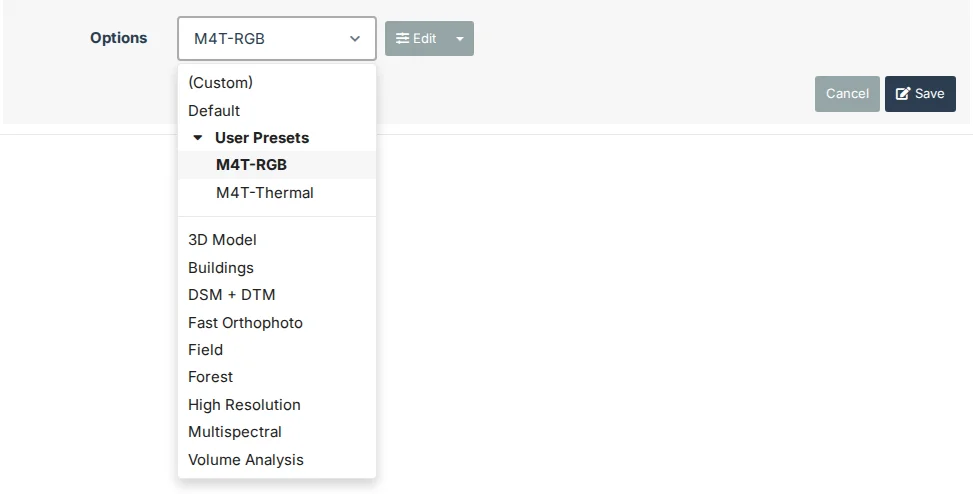
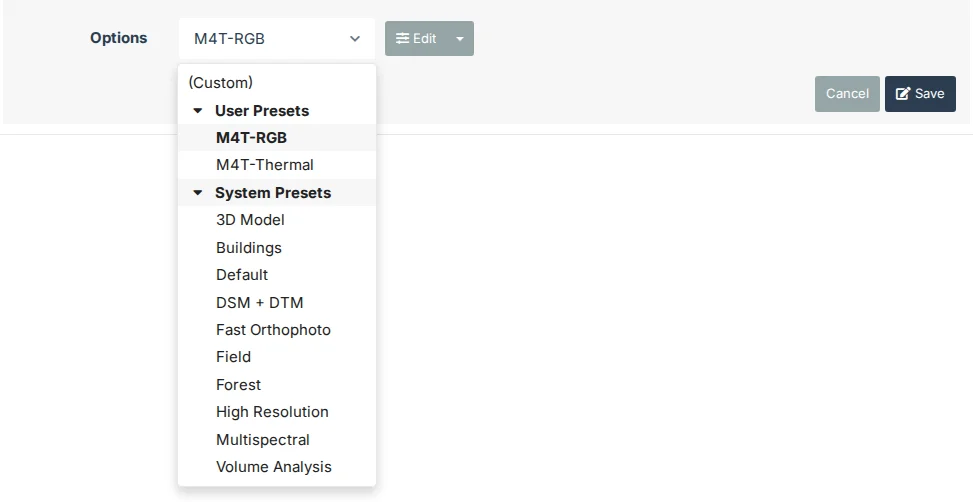
Sort Preset Options: a System Presets submenu below User Presets, Default in it
(Custom) alone stays at the top; each submenu starts open when it holds the chosen preset.

diff --git a/tweakui/public/preset_menu.js b/tweakui/public/preset_menu.js
@@ -1,7 +1,7 @@
 // General > Task Options > Sort Preset Options: the Options preset dropdown of a task's form (the New Task panel's and
-// a task's Edit form, EditTaskForm in WebODM) becomes a dropdown of TweakUI's own, in theme colours: (Custom) when the
-// options were edited, then Default, at the top; then "User Presets", which opens in the list to the user's own
-// presets, A-Z; then the other system presets, A-Z. WebODM's select stays on the page, hidden: choosing an item sets
+// a task's Edit form, EditTaskForm in WebODM) becomes a dropdown of TweakUI's own, in theme colours: (Custom) at the
+// top when the options were edited; then two submenus that open in the list, "User Presets" (the user's own) and
+// "System Presets" (WebODM's, Default among them), each A-Z and open at first when it holds the chosen preset. WebODM's select stays on the page, hidden: choosing an item sets
 // its value and sends it a change event, so WebODM's own code selects the preset, and the button follows the select
 // (its options, value and title change as WebODM re-renders it). UMD, so Jest can load it.
 (function (root, factory) {
@@ -20,27 +20,19 @@
     var DONE = "data-tweakui-presets";
     var CUSTOM = "-1";
 
-    function gettext(win, text) {
-        return typeof win.gettext === "function" ? win.gettext(text) : text;
-    }
-
     function byName(a, b) {
         return a.name.localeCompare(b.name, undefined, {sensitivity: "base"});
     }
 
-    // The select's presets, in the menu's order: {top: [(Custom), Default], user: [...], system: [...]}, each
-    // {value, name}; Default is the system preset WebODM shows as gettext("Default")
-    function order(select, win) {
-        var defaultName = gettext(win, "Default"), out = {top: [], user: [], system: []}, custom = null, def = null;
+    // The select's presets, in the menu's order: {top: [(Custom)], user: [...], system: [...]}, each {value, name}
+    function order(select) {
+        var out = {top: [], user: [], system: []};
         Array.prototype.forEach.call(select.options, function (o) {
             var p = {value: o.value, name: o.textContent};
-            if (o.value === CUSTOM) custom = p;
-            else if (!o.classList.contains("system-preset")) out.user.push(p);
-            else if (!def && (p.name === defaultName || p.name === "Default")) def = p;
-            else out.system.push(p);
+            if (o.value === CUSTOM) out.top.push(p);
+            else if (o.classList.contains("system-preset")) out.system.push(p);
+            else out.user.push(p);
         });
-        if (custom) out.top.push(custom);
-        if (def) out.top.push(def);
         out.user.sort(byName);
         out.system.sort(byName);
         return out;
@@ -74,8 +66,8 @@
         menu.setAttribute("role", "menu");
         wrap.appendChild(button);
         wrap.appendChild(menu);
-        // null: the submenu opens when the chosen preset is the user's; then as the user left it
-        var userOpen = null;
+        // Each submenu, by key: null opens it when it holds the chosen preset; then as the user left it
+        var groupOpen = {user: null, system: null};
 
         function selected() {
             var o = select.options[select.selectedIndex];
@@ -104,31 +96,31 @@
             return li;
         }
 
+        // A submenu's heading, and its presets while open; none without presets
+        function group(key, label, presets) {
+            if (!presets.length) return;
+            var now = selected(), held = presets.some(function (p) { return p.value === now; });
+            var open = groupOpen[key] === null ? held : groupOpen[key];
+            var li = ui.el(doc, "li", "tweakui-presets-group");
+            li.setAttribute("role", "presentation");
+            var head = ui.el(doc, "a", "tweakui-presets-group-head");
+            head.href = "#";
+            head.setAttribute("role", "menuitem");
+            head.setAttribute("data-group", key);
+            head.setAttribute("aria-expanded", open ? "true" : "false");
+            head.appendChild(ui.el(doc, "i", "fa fa-fw " + (open ? "fa-caret-down" : "fa-caret-right")));
+            head.appendChild(doc.createTextNode(" " + label));
+            li.appendChild(head);
+            menu.appendChild(li);
+            if (open) presets.forEach(function (p) { menu.appendChild(item(p, true)); });
+        }
+
         function build() {
-            var list = order(select, win), now = selected();
+            var list = order(select);
             while (menu.firstChild) menu.removeChild(menu.firstChild);
             list.top.forEach(function (p) { menu.appendChild(item(p)); });
-            if (list.user.length) {
-                var mine = list.user.some(function (p) { return p.value === now; });
-                var open = userOpen === null ? mine : userOpen;
-                var li = ui.el(doc, "li", "tweakui-presets-group");
-                li.setAttribute("role", "presentation");
-                var head = ui.el(doc, "a", "tweakui-presets-group-head");
-                head.href = "#";
-                head.setAttribute("role", "menuitem");
-                head.setAttribute("aria-expanded", open ? "true" : "false");
-                head.appendChild(ui.el(doc, "i", "fa fa-fw " + (open ? "fa-caret-down" : "fa-caret-right")));
-                head.appendChild(doc.createTextNode(" User Presets"));
-                li.appendChild(head);
-                menu.appendChild(li);
-                if (open) list.user.forEach(function (p) { menu.appendChild(item(p, true)); });
-            }
-            if (list.system.length && menu.firstChild) {
-                var line = ui.el(doc, "li", "divider");
-                line.setAttribute("role", "separator");
-                menu.appendChild(line);
-            }
-            list.system.forEach(function (p) { menu.appendChild(item(p)); });
+            group("user", "User Presets", list.user);
+            group("system", "System Presets", list.system);
         }
 
         function isOpen() { return wrap.classList.contains("open"); }
@@ -165,9 +157,10 @@
             if (!a) return;
             e.preventDefault();
             if (a.classList.contains("tweakui-presets-group-head")) {
-                userOpen = a.getAttribute("aria-expanded") !== "true";
+                var key = a.getAttribute("data-group");
+                groupOpen[key] = a.getAttribute("aria-expanded") !== "true";
                 build();
-                var head = menu.querySelector(".tweakui-presets-group-head");
+                var head = menu.querySelector('.tweakui-presets-group-head[data-group="' + key + '"]');
                 if (head) head.focus();
                 return;
             }

diff --git a/tweakui/public/__tests__/preset_menu.test.js b/tweakui/public/__tests__/preset_menu.test.js
@@ -49,49 +49,58 @@ test("turned on, a dropdown of TweakUI's own takes the select's place, showing t
     expect(button().title).toBe("Options: auto");
 });
 
-test("(Custom) and Default stay at the top, User Presets comes next, closed, and the other presets follow A-Z", () => {
+test("(Custom) stays at the top; User Presets and System Presets follow, closed when neither holds the choice", () => {
     form({custom: true, value: "-1"});
     start();
     button().click();
     expect(document.querySelector(".tweakui-presets").classList.contains("open")).toBe(true);
-    expect(items()).toEqual(["(Custom)", "Default", "User Presets", "---", "3D Model", "Buildings", "Fast Orthophoto", "High Resolution"]);
+    expect(items()).toEqual(["(Custom)", "User Presets", "System Presets"]);
 });
 
 test("User Presets opens in the list to the user's presets, A-Z regardless of case, and closes again", () => {
-    form();
+    form({custom: true, value: "-1"});
     start();
     button().click();
     link("User Presets").click();
-    expect(items().slice(1, 5)).toEqual(["User Presets", "  M4T-RGB", "  m4t-Thermal", "  Multispectral"]);
+    expect(items()).toEqual(["(Custom)", "User Presets", "  M4T-RGB", "  m4t-Thermal", "  Multispectral", "System Presets"]);
     expect(document.querySelector(".tweakui-presets").classList.contains("open")).toBe(true);
+    expect(document.activeElement.textContent.trim()).toBe("User Presets");
     link("User Presets").click();
     expect(items()).not.toContain("  M4T-RGB");
 });
 
-test("User Presets starts open when the chosen preset is one of the user's, which is marked", () => {
+test("System Presets holds WebODM's presets, Default among them, A-Z, and opens on its own", () => {
+    form({custom: true, value: "-1"});
+    start();
+    button().click();
+    link("System Presets").click();
+    expect(items()).toEqual(["(Custom)", "User Presets", "System Presets", "  3D Model", "  Buildings", "  Default",
+        "  Fast Orthophoto", "  High Resolution"]);
+    expect(document.activeElement.textContent.trim()).toBe("System Presets");
+});
+
+test("the submenu that holds the chosen preset starts open, the preset marked", () => {
     form({value: "11"});
     start();
     expect(button().textContent).toBe("m4t-Thermal");
     button().click();
     expect(items()).toContain("  m4t-Thermal");
+    expect(items()).not.toContain("  Default");
     expect(link("m4t-Thermal").parentNode.className).toBe("tweakui-presets-current");
     expect(link("m4t-Thermal").className).toContain("theme-background-highlight");
+    form();
+    start();
+    button().click();
+    expect(items()).toEqual(["User Presets", "System Presets", "  3D Model", "  Buildings", "  Default",
+        "  Fast Orthophoto", "  High Resolution"]);
 });
 
 test("without presets of the user's, there is no User Presets", () => {
     form({user: []});
     start();
     button().click();
-    expect(items()).toEqual(["Default", "---", "3D Model", "Buildings", "Fast Orthophoto", "High Resolution"]);
-});
-
-test("Default is found in WebODM's language", () => {
-    window.gettext = t => (t === "Default" ? "Standard" : t);
-    form();
-    document.querySelector('option[value="1"]').textContent = "Standard";
-    start();
-    button().click();
-    expect(items()[0]).toBe("Standard");
+    expect(items()[0]).toBe("System Presets");
+    expect(items()).not.toContain("User Presets");
 });
 
 test("choosing a preset sets WebODM's select and tells it, as a choice there would, and closes the menu", () => {
@@ -145,7 +154,7 @@ test("a click outside or Escape closes the menu; the arrows open it at the chose
     expect(document.querySelector(".tweakui-presets").classList.contains("open")).toBe(true);
     expect(document.activeElement.textContent).toBe("Default");
     document.activeElement.dispatchEvent(new KeyboardEvent("keydown", {key: "ArrowDown", bubbles: true}));
-    expect(document.activeElement.textContent.trim()).toBe("User Presets");
+    expect(document.activeElement.textContent.trim()).toBe("Fast Orthophoto");
     document.activeElement.dispatchEvent(new KeyboardEvent("keydown", {key: "Escape", bubbles: true}));
     expect(document.querySelector(".tweakui-presets").classList.contains("open")).toBe(false);
     expect(document.activeElement).toBe(button());

diff --git a/dev/screenshots.js b/dev/screenshots.js
@@ -41,8 +41,7 @@ const SHOTS = [
         },
     },
     {
-        // A task's Edit form with the Options dropdown open; User Presets opened when the task's preset isn't one of
-        // the user's
+        // A task's Edit form with the Options dropdown open, User Presets and System Presets opened
         name: "sort-preset-options", settings: {sort_preset_options: true, expand_task_controls: false},
         async run(s) {
             await s.openTask();
@@ -52,7 +51,11 @@ const SHOTS = [
             // A window tall enough for the open menu below the row (the next shot sets it back)
             await s.page.setViewportSize({width: WIDTH, height: 1200});
             await s.page.click(".tweakui-presets-button");
-            if (!(await s.page.$(".tweakui-presets-nested"))) await s.page.click(".tweakui-presets-group-head");
+            // Both submenus open
+            for (const key of ["user", "system"]) {
+                const head = `.tweakui-presets-group-head[data-group="${key}"]`;
+                if (await s.page.$(head + '[aria-expanded="false"]')) await s.page.click(head);
+            }
             await s.page.mouse.move(0, 0);
             await s.page.waitForTimeout(300);
             const box = await s.page.evaluate(() => {

diff --git a/tweakui/features.py b/tweakui/features.py
@@ -81,8 +81,9 @@ CATEGORIES = [
                       "All and Collapse All but Configured."),
                     preview="expand-configured", scripts=["task_options.js"]),
             Setting("sort_preset_options", False, _("Sort Preset Options"),
-                    _("The Options dropdown of a new or edited task lists its presets A-Z, after (Custom) and Default, "
-                      "with a User Presets submenu at the top that opens to your own saved presets."),
+                    _("The Options dropdown of a new or edited task lists its presets A-Z in two submenus, User "
+                      "Presets (your own saved presets) and System Presets (WebODM's, Default among them), below "
+                      "(Custom)."),
                     preview="sort-preset-options", scripts=["preset_menu.js"]),
         ]),
         Group(_("Task Details"), [

diff --git a/upcoming-changes.md b/upcoming-changes.md
@@ -13,7 +13,8 @@
 - **Task Options: Sort Preset Options** (the user's request, 2026-11-08; see "Task Options: Sort Preset Options") —
   branch `sort-preset-options`: `tweakui/public/preset_menu.js`, its section of `main.css`, tests in
   `__tests__/preset_menu.test.js`, `features.py`, `dev/selector-check.js` (`WHERE`), screenshot
-  `sort-preset-options`, `docs/general.md`, README, CHANGELOG. Live on 4.0.0 (a task's Edit form, the user's presets
+  `sort-preset-options`, `docs/general.md`, README, CHANGELOG; the System Presets submenu on `system-presets-submenu`
+  (checked live alike on both stacks, screenshot retaken). Live on 4.0.0 (a task's Edit form, the user's presets
   M4T-RGB and M4T-Thermal; dark and light themes, phone width) and 3.3.2 (the New Task panel with images chosen,
   never started; a "Live check" preset made and deleted): the order, the submenu, a choice reaching WebODM's state,
   no writes, no console errors. Found while building: WebODM floats `.dropdown` right in the form, and Bootstrap's
@@ -1675,6 +1676,9 @@ A native select cannot hold a submenu.
   is one of the user's. No user presets: no submenu.
 - Order: (Custom) when present, then Default, at the top; then User Presets; then the other system presets A-Z.
   The user's presets are A-Z inside the submenu.
+- Changed by the user (2026-11-08), after seeing it: a System Presets submenu like User Presets, below it, holding
+  every system preset with Default among them, A-Z; (Custom) alone at the top. Each submenu starts open when it
+  holds the chosen preset (branch `system-presets-submenu`).
 
 **Built**: see Done.
 

diff --git a/docs/general.md b/docs/general.md
@@ -79,15 +79,16 @@ Collapse All.
 
 Off by default.
 
-![A task's Edit form with the Options dropdown open: (Custom), Default, User Presets opened, then the other presets A to Z](../tweakui/public/previews/sort-preset-options.webp)
+![A task's Edit form with the Options dropdown open: (Custom), then User Presets and System Presets opened, each A to Z](../tweakui/public/previews/sort-preset-options.webp)
 
 The Options dropdown, where a new task or a task you edit picks its preset, lists its presets in an order that's
 easier to scan:
 
-- **(Custom)**, when you have edited the options, then **Default**, at the top.
-- **User Presets**, which opens in the list to the presets you saved, A to Z. It starts open when the chosen preset is
-  one of yours. Without presets of your own, it isn't there.
-- The other presets, A to Z.
+- **(Custom)** at the top, when you have edited the options.
+- **User Presets**: the presets you saved, A to Z. Without presets of your own, it isn't there.
+- **System Presets**: WebODM's presets, Default among them, A to Z.
+
+Each submenu opens and closes in the list with a click on its name, and starts open when it holds the chosen preset.
 
 The chosen preset is in bold and highlighted, in your theme's colours (WebODM's own dropdown shows the system presets
 on a light background, which a dark theme makes hard to read). Choosing a preset works as it does in WebODM's dropdown,

diff --git a/CHANGELOG.md b/CHANGELOG.md
@@ -2,9 +2,9 @@
 
 ## Unreleased
 
-- General > Task Options > Sort Preset Options: the Options dropdown of a new or edited task lists (Custom) and
-  Default first, then a User Presets submenu that opens to your saved presets, then the other presets, all A-Z, in
-  your theme's colours.
+- General > Task Options > Sort Preset Options: the Options dropdown of a new or edited task lists (Custom) first,
+  then two submenus that open in the list, User Presets (your saved presets) and System Presets (WebODM's, Default
+  among them), each A-Z, in your theme's colours.
 - General > Global Controls > Hide Navigation Pane: the tab cycles through three steps: the side menu's icons only
   (their names on hover, as Resize Navigation Pane's narrowest), hidden, and back at the usual width.
 - Source Frames: the button reads "Open Full Frame", in Title Case like the rest of the interface.

diff --git a/README.md b/README.md
@@ -22,7 +22,7 @@ Every feature is off until you turn it on, except the theme menu.
   Navigation Pane) and a divider that resizes it, down to its icons (Resize Navigation Pane); in the Task Options
   dialog, each group's count of options not at their
   default (Show Modified Options) and those options shown under a collapsed group (Expand Configured); the Options
-  dropdown sorted A-Z, with your saved presets in a User Presets submenu (Sort Preset Options); on the
+  dropdown sorted A-Z into User Presets and System Presets submenus (Sort Preset Options); on the
   Dashboard, a task's start and end times, preset, options as bubbles, ODX command and current
   step (Enhanced Task Details), a minimized task's buttons kept in view (Expand Task Controls), and fireworks every
   few seconds, or at the pointer on a right-click (Surprise Me).
